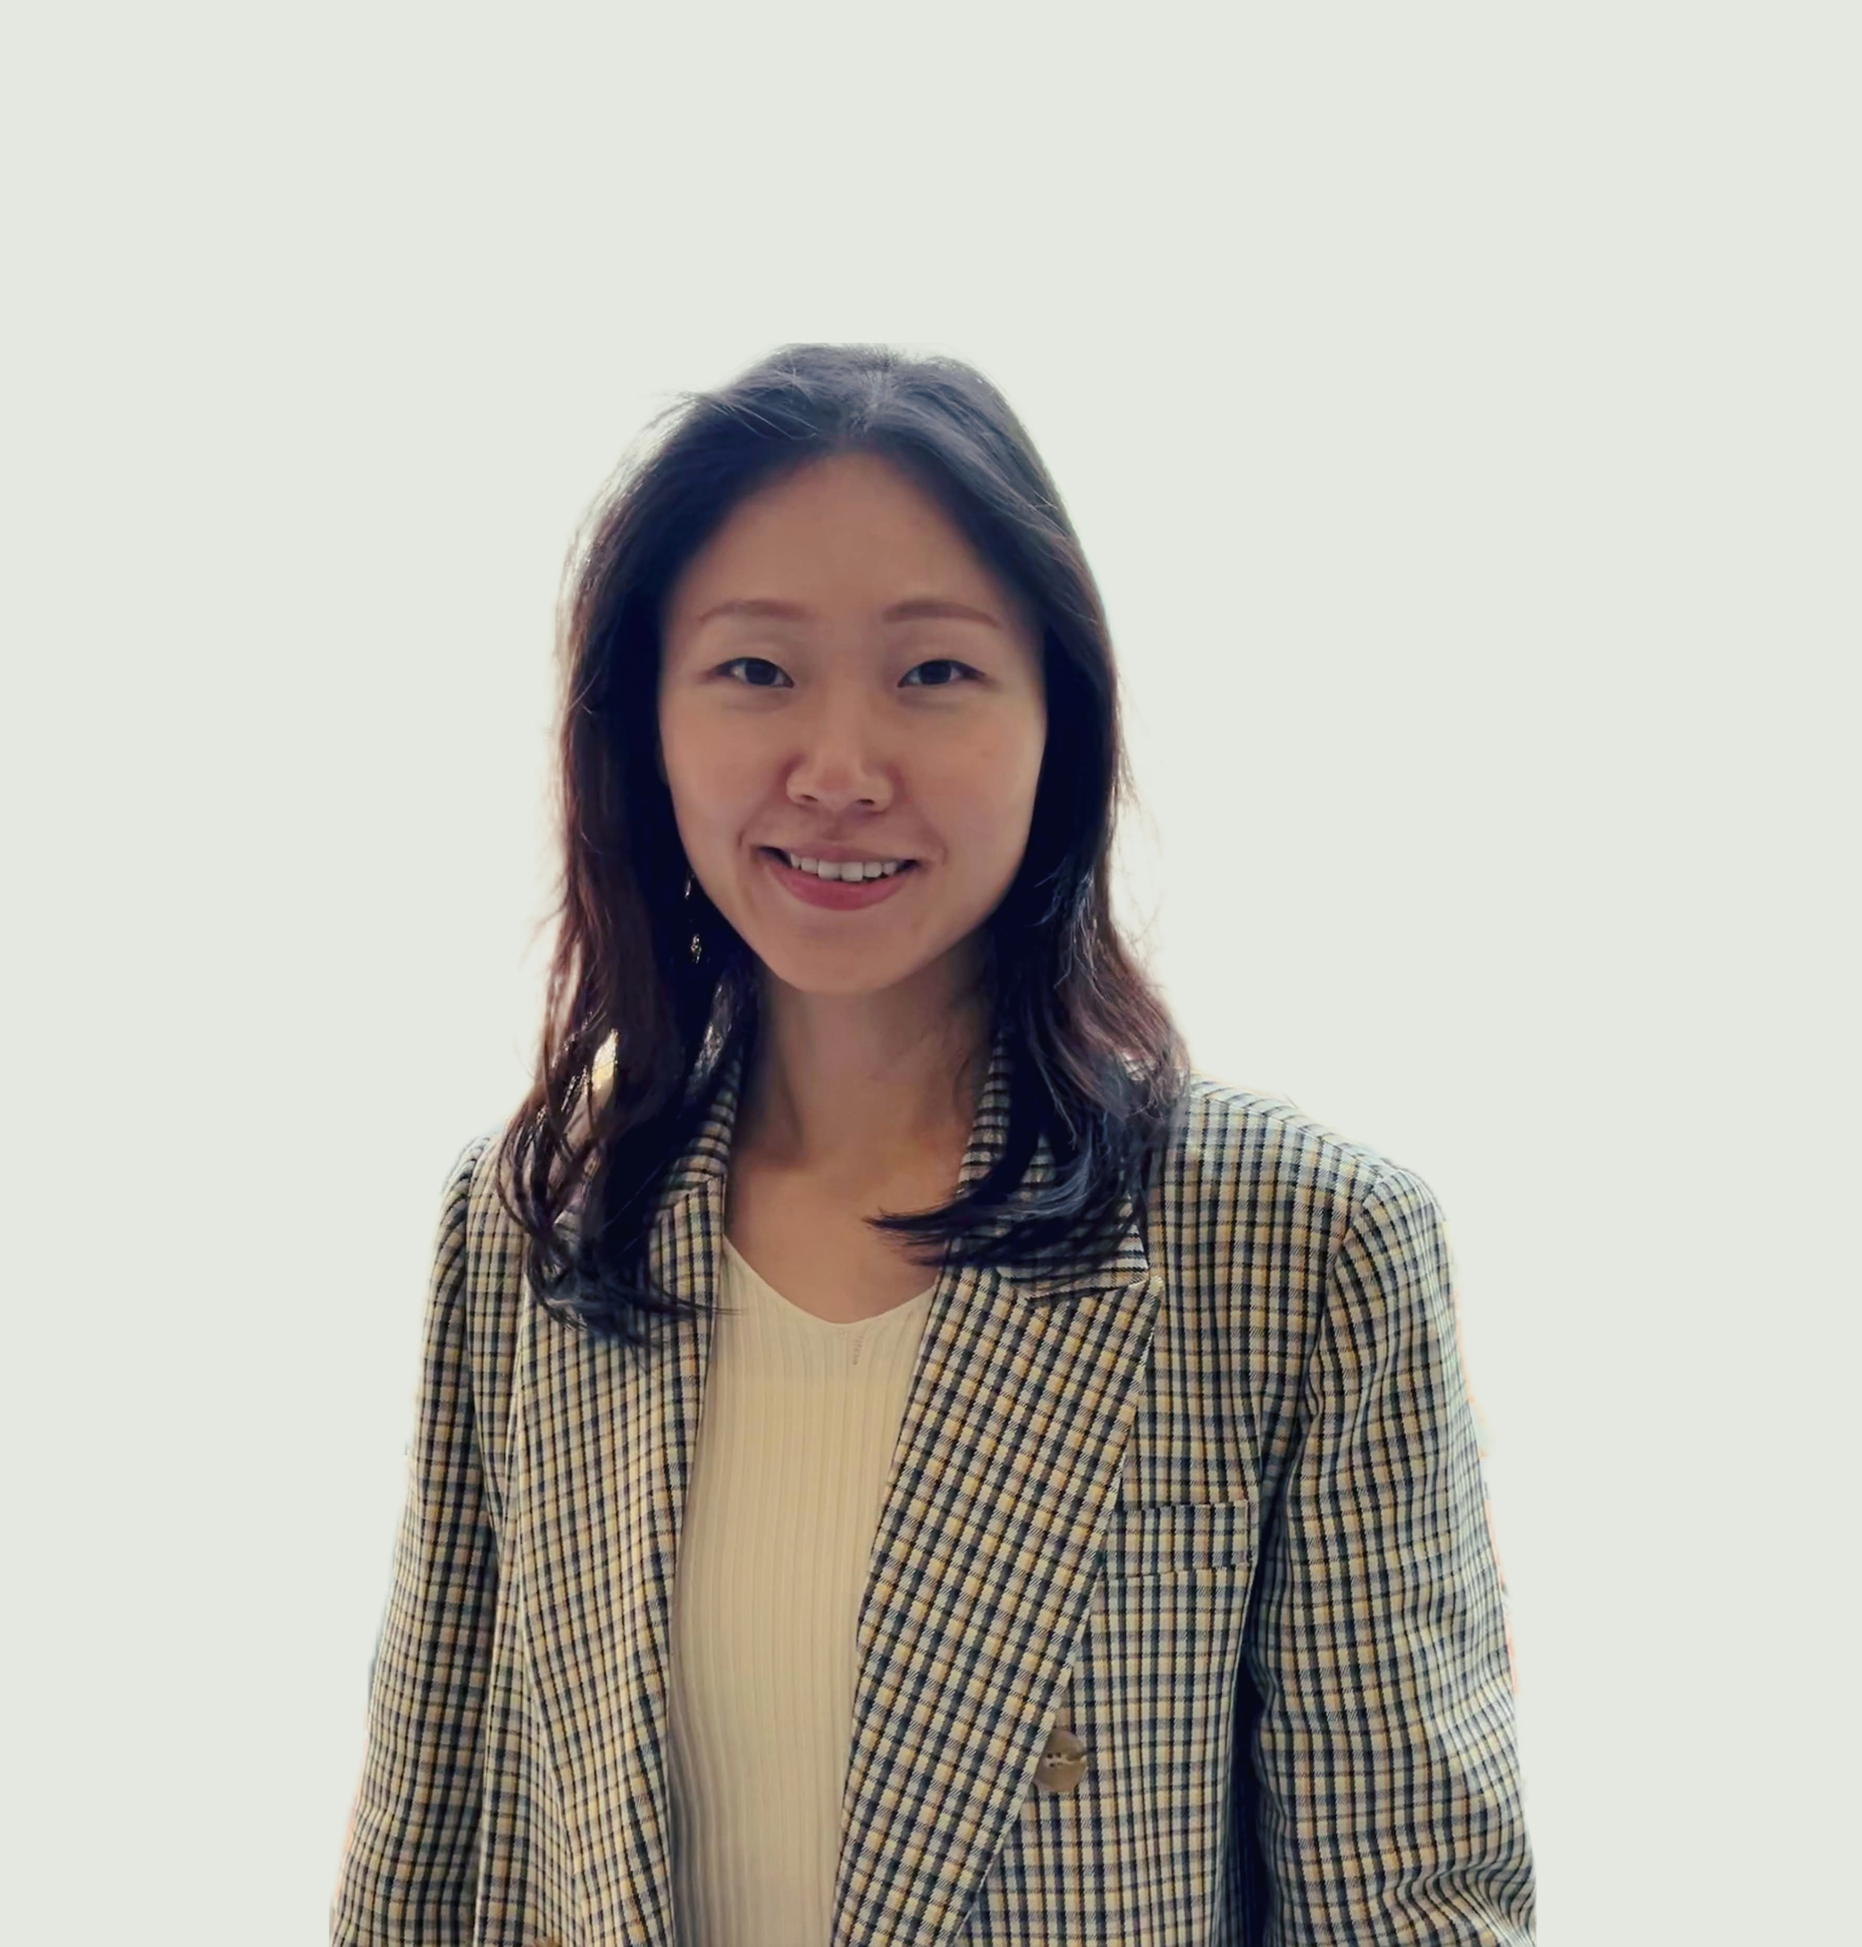
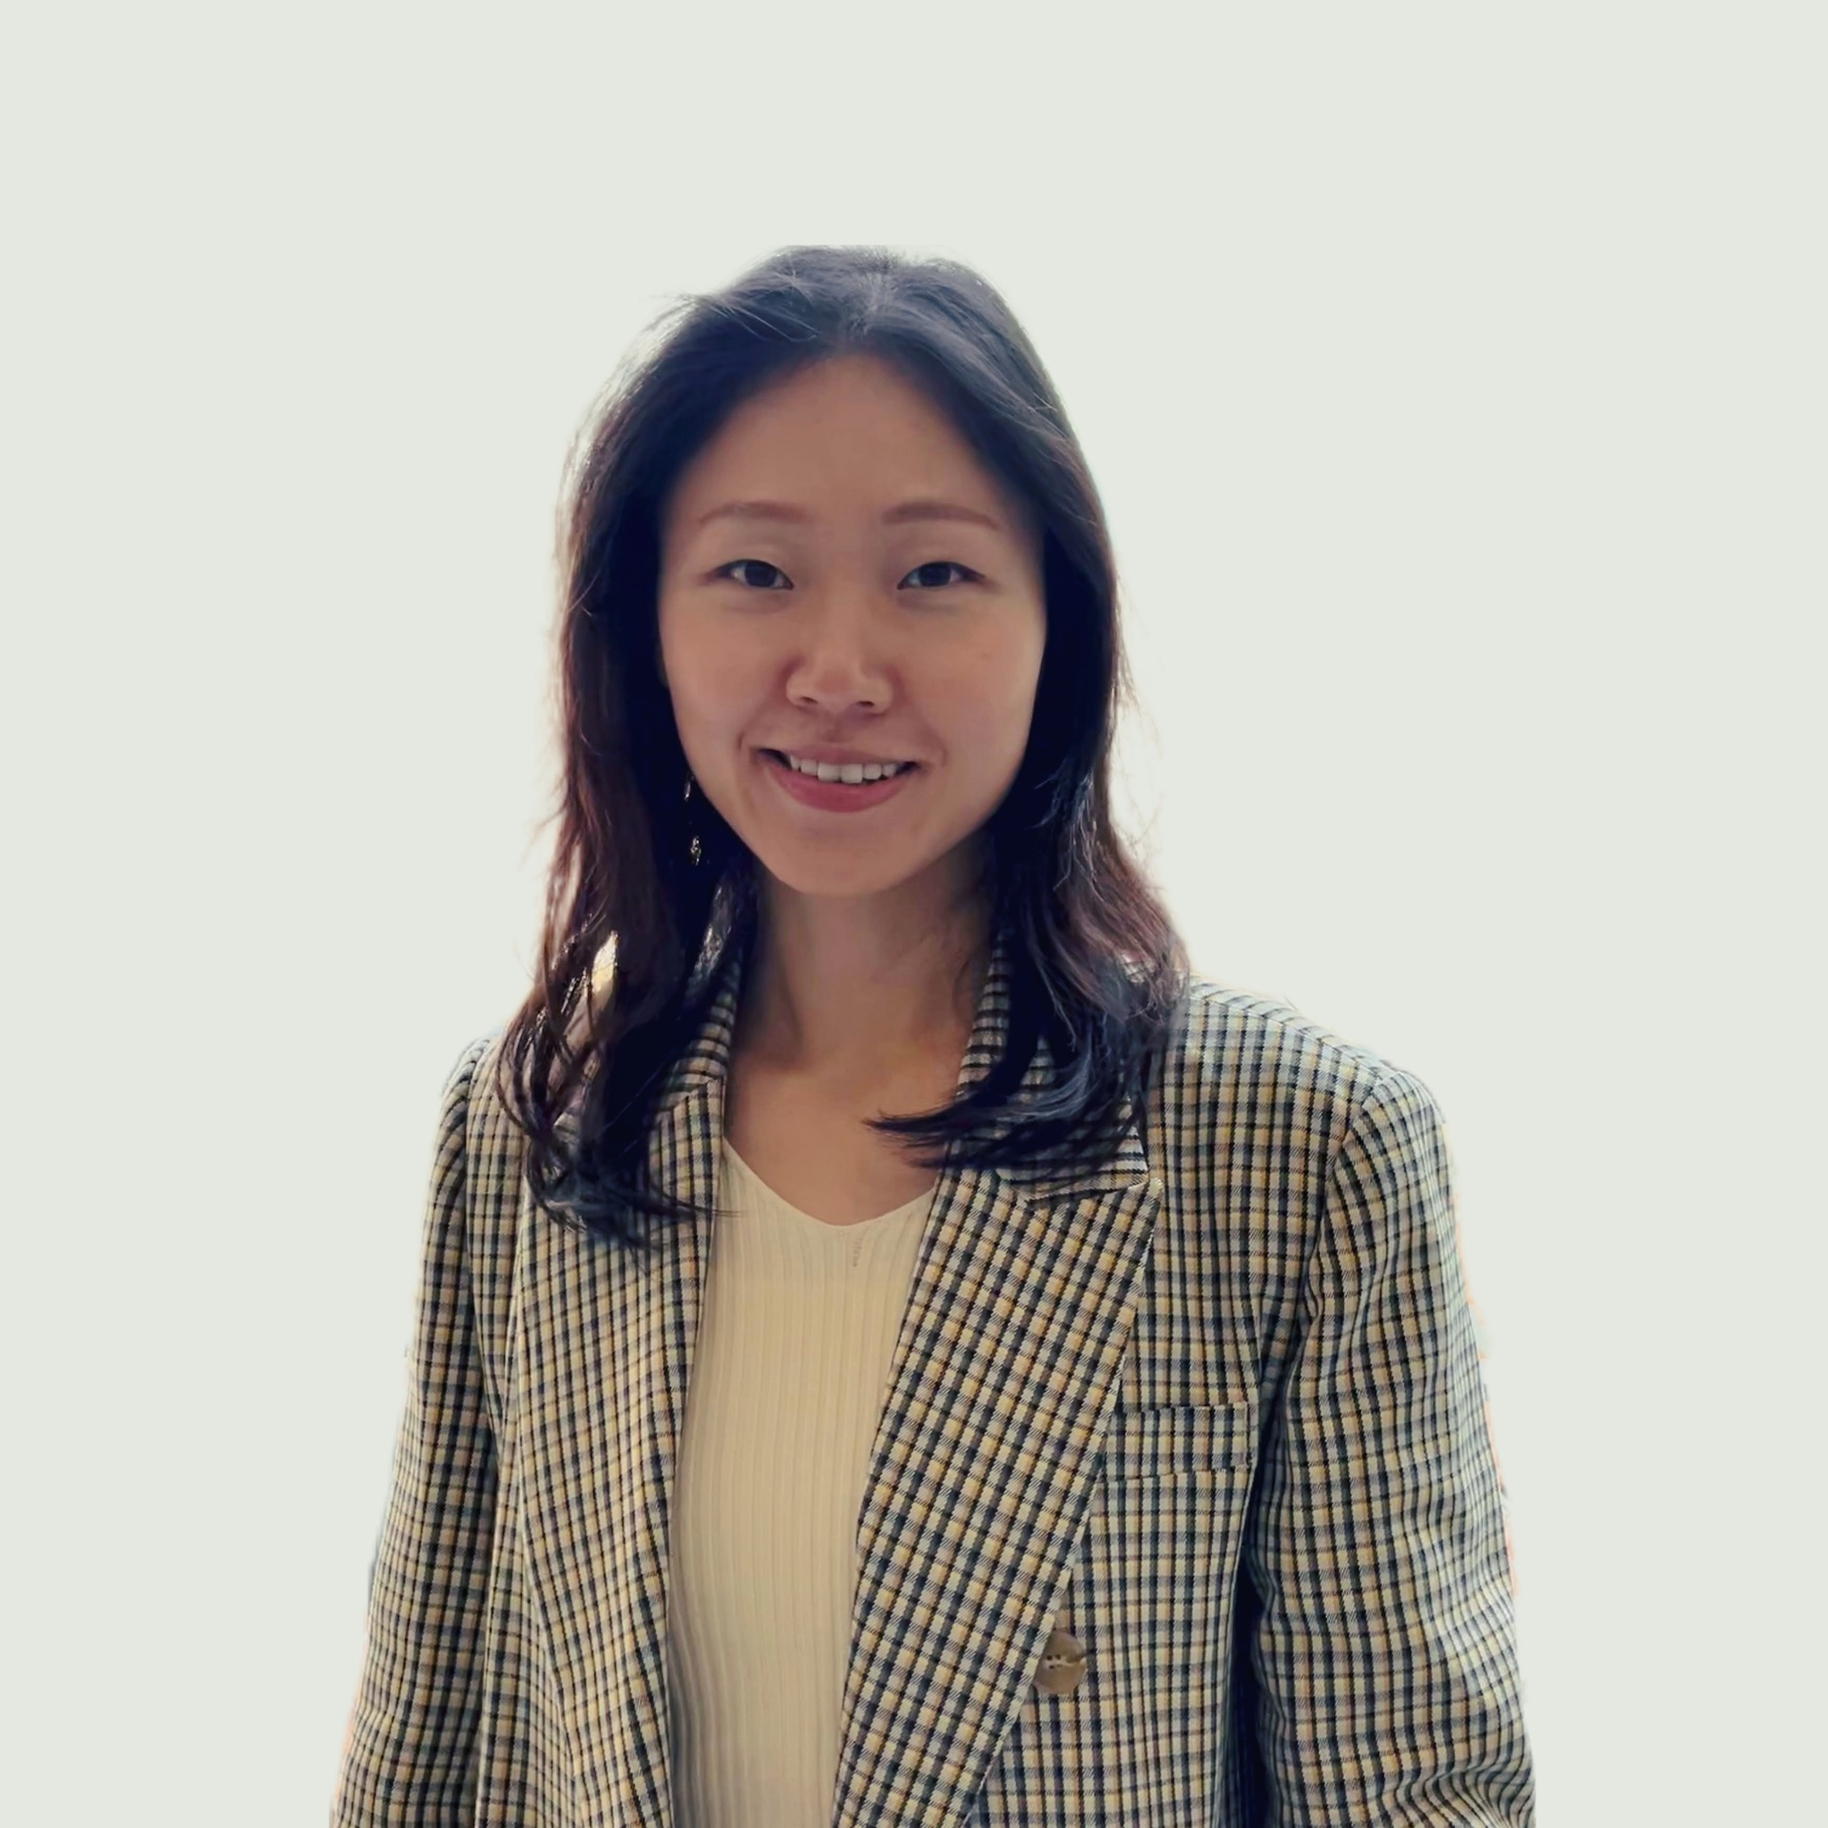
fix: image size

Changed region(s): [[0.156, 0.1248, 0.8424, 1.0]]

diff --git a/src/components/pages/schedule/schedule/schedule.jsx b/src/components/pages/schedule/schedule/schedule.jsx
@@ -7,8 +7,8 @@ import Modal from 'components/shared/modal';
 
 import AdrianVladuPhoto from './images/adrian-vladu-photo.jpg';
 import AlessandroPilottiPhoto from './images/alessandro-pilotti-photo.jpg';
-import AlessandroVozzaPhoto from './images/alessandro-vozza-photo.png';
-import AlexRaiuPhoto from './images/alex-raiu-photo.png';
+import AlessandroVozzaPhoto from './images/alessandro-vozza-photo.jpg';
+import AlexRaiuPhoto from './images/alex-raiu-photo.jpg';
 import AlexandruDejanuPhoto from './images/alexandru-dejanu-photo.jpg';
 import AndraSomesanPhoto from './images/andra-somesan-photo.jpg';
 import AndradaRaducanuPhoto from './images/andrada-raducanu-photo.jpg';

diff --git a/src/components/pages/speakers/speakers/speakers.jsx b/src/components/pages/speakers/speakers/speakers.jsx
@@ -7,8 +7,8 @@ import LINKS from 'constants/links';
 
 import AdrianVladuPhoto from './images/adrian-vladu-photo.jpg';
 import AlessandroPilottiPhoto from './images/alessandro-pilotti-photo.jpg';
-import AlessandroVozzaPhoto from './images/alessandro-vozza-photo.png';
-import AlexRaiuPhoto from './images/alex-raiu-photo.png';
+import AlessandroVozzaPhoto from './images/alessandro-vozza-photo.jpg';
+import AlexRaiuPhoto from './images/alex-raiu-photo.jpg';
 import AlexandruDejanuPhoto from './images/alexandru-dejanu-photo.jpg';
 import AndraSomesanPhoto from './images/andra-somesan-photo.jpg';
 import AndradaRaducanuPhoto from './images/andrada-raducanu-photo.jpg';
